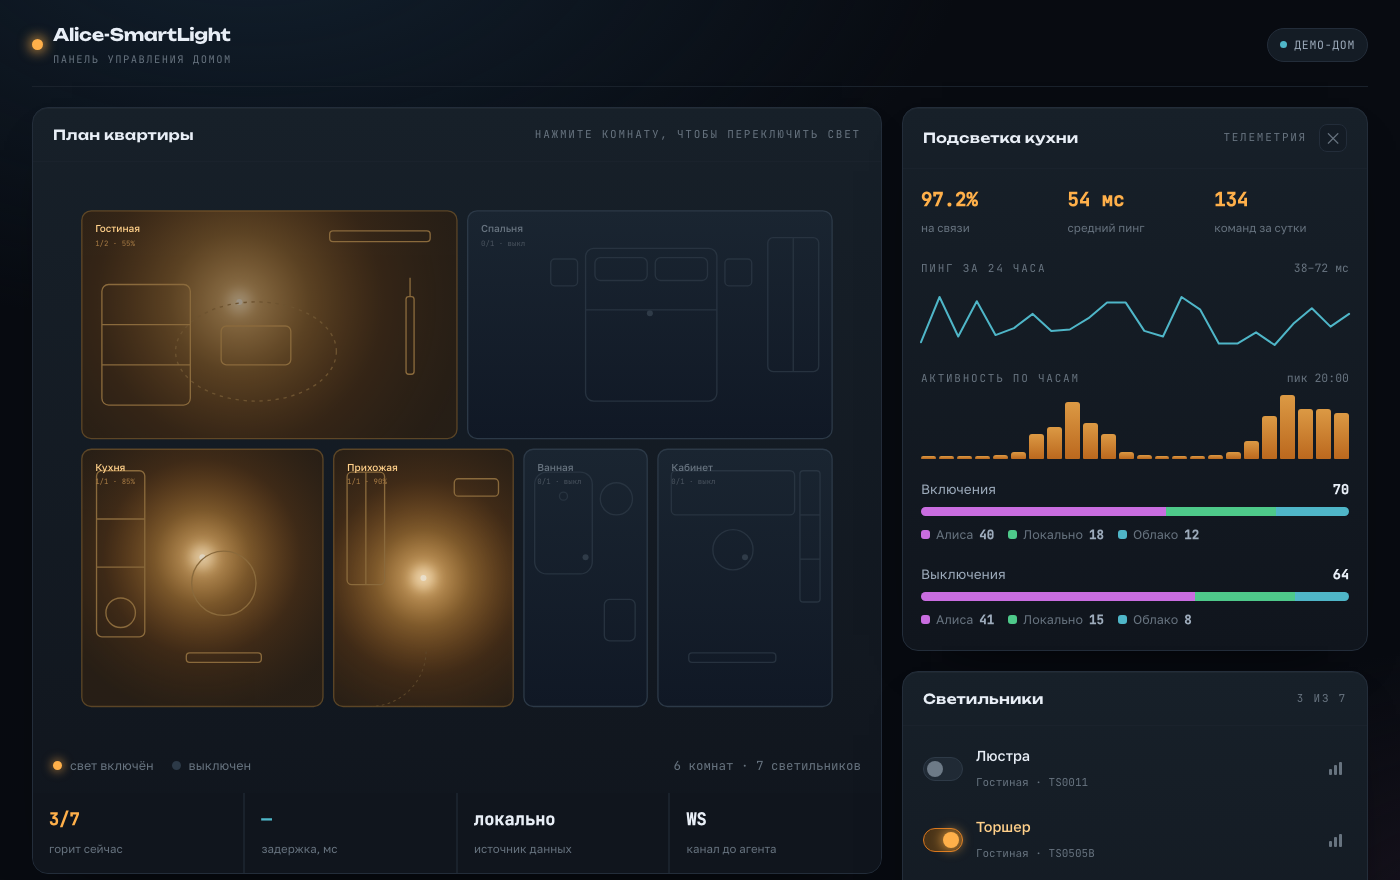
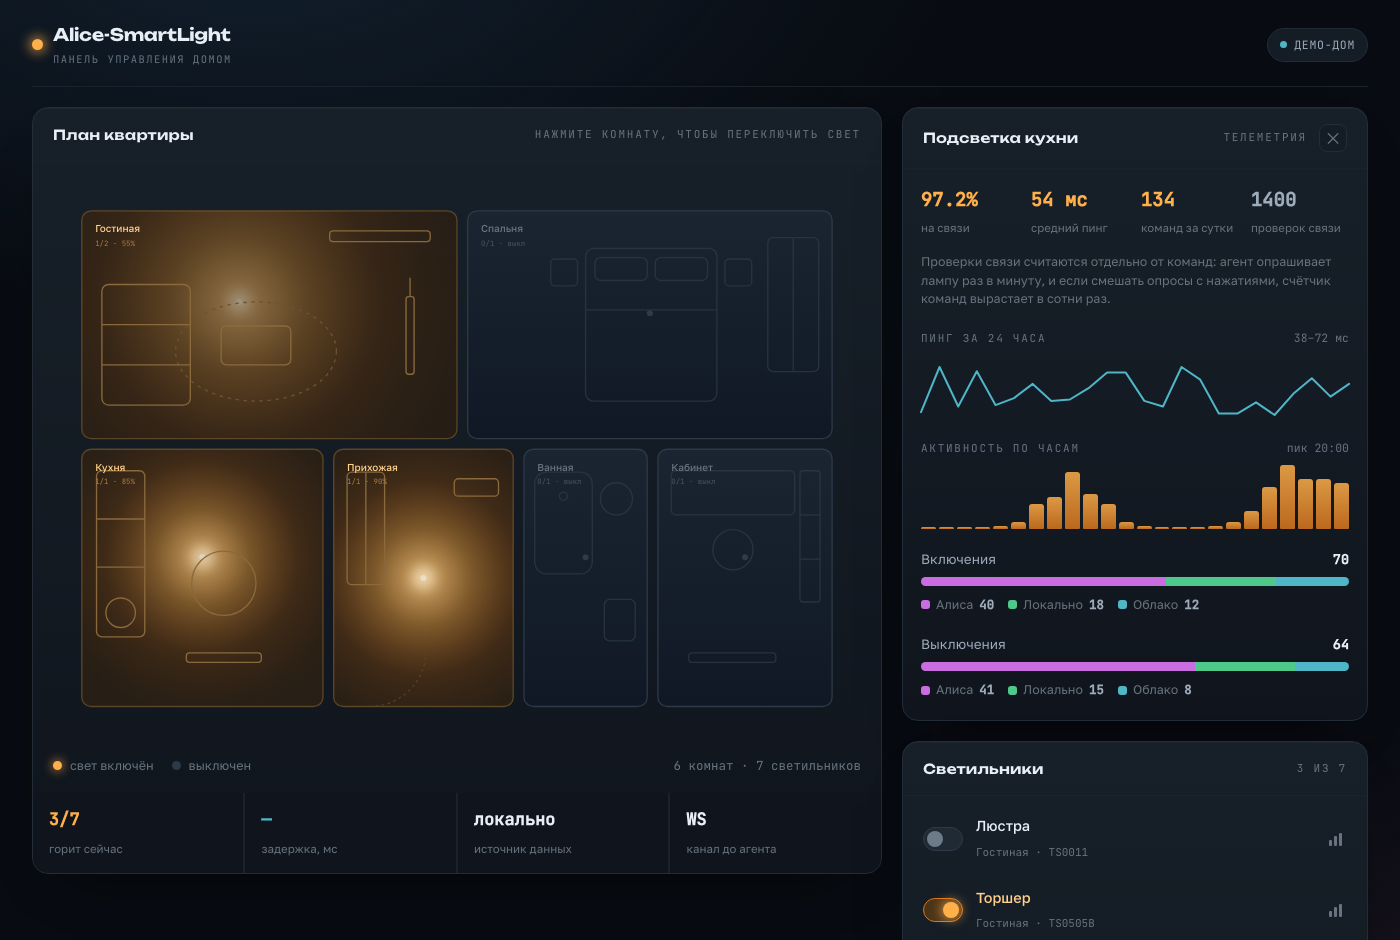
Count health checks separately from commands
Polling the lamp once a minute produces about 1500 checks a day against dozens of real presses, so a single combined counter says nothing about how the light is actually used.

diff --git a/web/src/data/home.ts b/web/src/data/home.ts
@@ -95,6 +95,9 @@ export type CommandSplit = { alice: number; local: number; cloud: number }
 export type DeviceStats = {
   uptimePct: number
   avgPingMs: number
+  /** служебные проверки связи за сутки — считаются отдельно от команд:
+   *  если смешать их с командами, счётчик разрастается в сотни раз */
+  healthChecks: number
   /** пинг за последние 24 часа, мс */
   ping24h: number[]
   /** сколько команд пришло в каждый час суток */
@@ -129,6 +132,7 @@ function makeStats(seed: number, base: { uptime: number; ping: number; commands:
   return {
     uptimePct: base.uptime,
     avgPingMs: Math.round(ping24h.reduce((sum, p) => sum + p, 0) / ping24h.length),
+    healthChecks: Math.round((1440 * base.uptime) / 100),
     ping24h,
     hourly,
     on: split(onTotal),

diff --git a/web/src/components/DeviceStats.tsx b/web/src/components/DeviceStats.tsx
@@ -83,7 +83,16 @@ export function DeviceStats({ device, onClose }: Props) {
             <b className="mono">{totalCommands}</b>
             <span>команд за сутки</span>
           </div>
+          <div>
+            <b className="mono muted">{stats.healthChecks}</b>
+            <span>проверок связи</span>
+          </div>
         </div>
+
+        <p className="stats-note">
+          Проверки связи считаются отдельно от команд: агент опрашивает лампу раз в минуту,
+          и если смешать опросы с нажатиями, счётчик команд вырастает в сотни раз.
+        </p>
 
         <div className="chart">
           <div className="chart-head">

diff --git a/web/src/styles.css b/web/src/styles.css
@@ -448,3 +448,8 @@ footer.foot a:hover { text-decoration: underline; }
   place-items: center;
 }
 .device .chart-btn:hover { border-color: var(--line); background: #141c25; color: var(--lamp-hot); }
+
+.stat-row { grid-template-columns: repeat(4, 1fr); }
+.stat-row b.muted { color: var(--ink-soft); }
+.stats-note { margin: -6px 0 0; font-size: 12.5px; line-height: 1.5; color: var(--ink-faint); }
+@media (max-width: 560px) { .stat-row { grid-template-columns: repeat(2, 1fr); } }

diff --git a/README.md b/README.md
@@ -37,6 +37,11 @@
 облако**, отдельно на включение и выключение. Ссылка вида `?device=kt-strip`
 открывает телеметрию нужного устройства сразу.
 
+Служебные проверки связи вынесены в отдельный счётчик и не смешиваются с командами:
+агент опрашивает лампу раз в минуту, поэтому за сутки набегает около полутора тысяч
+опросов против десятков реальных нажатий — если сложить их в одно число, метрика
+перестаёт что-либо значить.
+
 Панель работает в двух режимах:
 
 | Режим | Что делает |
